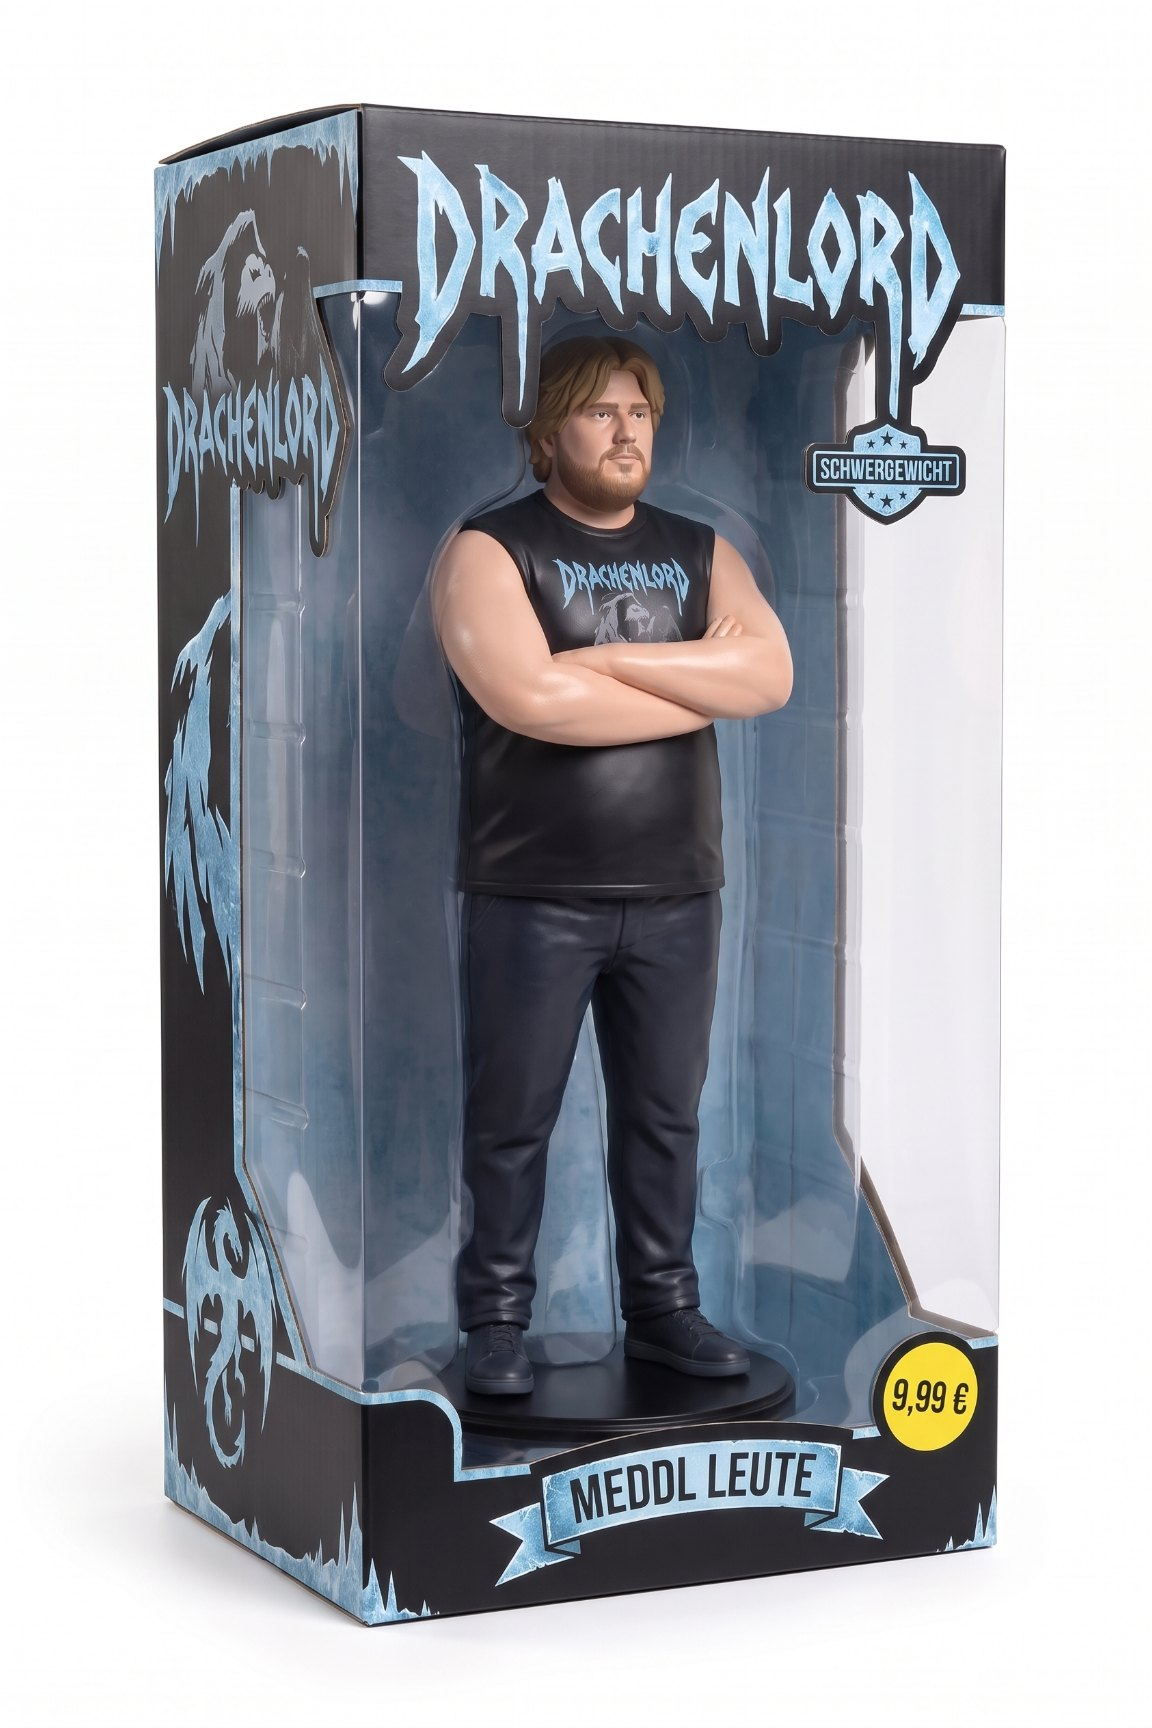
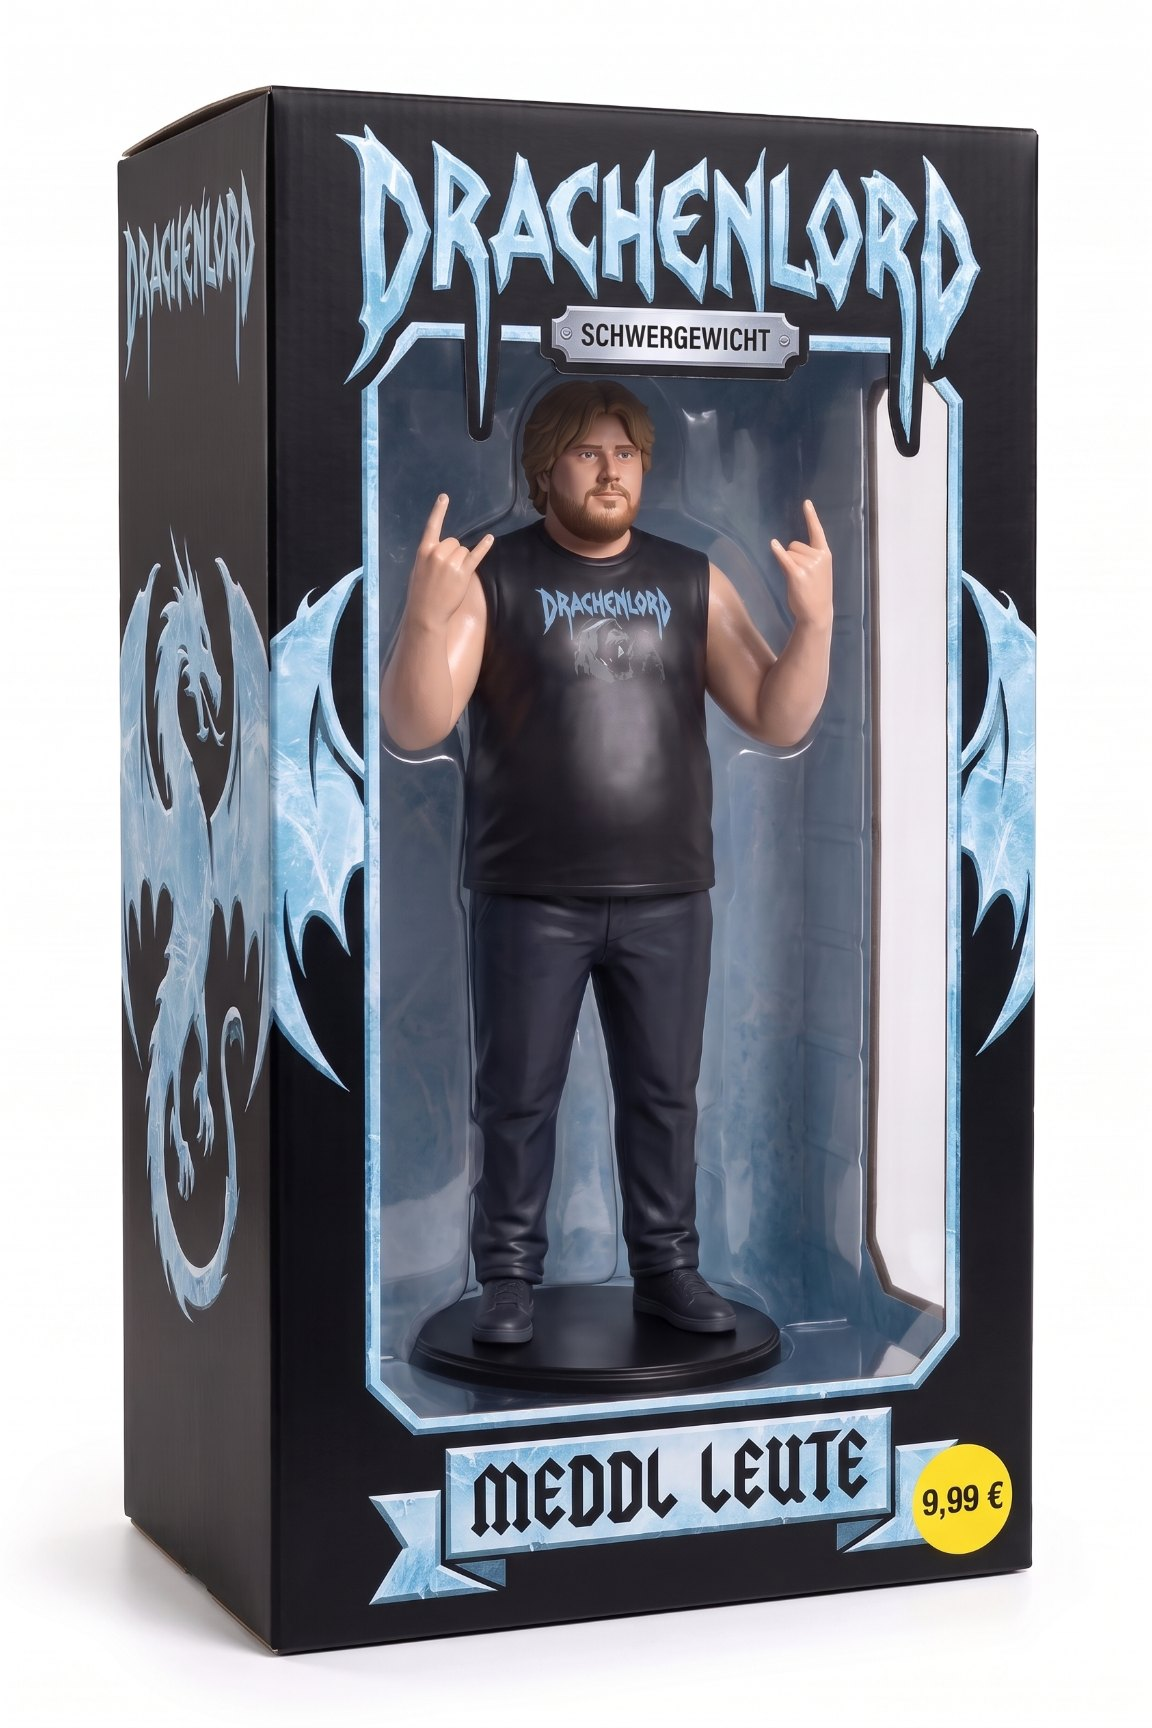
Drachenlord zeigt die Pommesgabel; zweites Bild erscheint, wenn die Maus auf der Karte ist

diff --git a/js/daten.js b/js/daten.js
@@ -10,7 +10,7 @@ var FIGUREN = [{slug:`cow-caddel`,name:`Cow Caddel`,role:`Paddock-Cowboy`,series
 // Beavis, Butt-Head und Drachenlord: nachträglich dazugekommen.
 FIGUREN.push({slug:`beavis`,name:`Beavis`,role:`Sofa`,series:`Goated`,price:9.99,sku:`BV-41505`,edition:``,tagline:`Trying to score`,descriptionTitle:`Er versucht es weiter`,description:[`Die Haare stehen hoch, orangeblond, fast so lang wie der Kopf darunter. Finstere Brauen, lange Nase, das Grinsen mit den Zähnen nach vorn. Blaugraues T-Shirt mit Metallica-Schriftzug, graue Shorts, weiße Socken, schwarze Schuhe. In der rechten Hand hält er eine Dose Pfefferspray, die linke hängt. Auf dem zweiten Bild hat er sich das Spray selbst ins Auge gesprüht: orange Wolke, rotes Auge, Mund weit offen.`,`30 cm, Maßstab 1:6, schwarzer Sockel. Fensterkarton in Blau und Orange, vorn der Preis als gelber Aufkleber. Artikel BV-41505, 9,99 €. Inoffizielles Fan-Stück, kein offizielles Merch.`],images:[{id:`front`,src:`figures/beavis-front.jpg`,label:`Front`},{id:`angle`,src:`figures/beavis-angle.jpg?v=2`,label:`Volltreffer`},{id:`box`,src:`figures/beavis-box.jpg`,label:`Verpackung`}],highlights:[{value:`30 cm`,label:`Höhe`},{value:`1:6`,label:`Maßstab`},{value:`499`,label:`Auflage`}],facts:[[`Name`,`Beavis`],[`Rolle`,`Sofa`],[`Serie`,`Goated`],[`Artikel`,`BV-41505`],[`Maßstab`,`1:6`],[`Höhe`,`30 cm`],[`Kopfbedeckung`,`Keine, Haare hoch`],[`Oberteil`,`Blaugraues T-Shirt`],[`Hose`,`Graue Shorts`],[`Schuhe`,`Schwarz, weiße Socken`],[`Dose`,`Pfefferspray, rechte Hand`],[`Inhalt`,`Orange`],[`Verpackung`,`Fensterkarton, blau und orange`],[`Sockel`,`Mattschwarz, rund`],[`Auflage`,`499 Stück`],[`Alter`,`ab 14 Jahren`],[`Preis`,`9,99 €`]],stats:[{label:`Haar`,value:99},{label:`Grinsen`,value:94},{label:`Pfefferspray`,value:88},{label:`Erfolg`,value:3},{label:`Ruhe`,value:12},{label:`Plastik`,value:91}],includes:[`Figur Beavis`,`Haare, fest`,`Blaugraues T-Shirt`,`Graue Shorts`,`Eine Dose Pfefferspray`,`Fensterkarton in Blau und Orange`,`Gedruckte Datenkarte, beidseitig`],note:`Fan-Stück, kein offizielles Merch. Das Pfefferspray ist Plastik, die orange Wolke auch.`});
 FIGUREN.push({slug:`butt-head`,name:`Butt-Head`,role:`Sofa, andere Seite`,series:`Goated`,price:9.99,sku:`BH-41506`,edition:``,tagline:`Hehehehe`,descriptionTitle:`Er lacht schon vorher`,description:[`Braune Welle hoch über einem sehr langen Kopf. Kleine Augen, große Nase, die Oberlippe zieht nach oben, darunter Zahnfleisch und Zahnspange. Graues T-Shirt mit gelbem AC/DC-Schriftzug, rote Shorts, weiße Socken, schwarze Schuhe. Beide Hände sind leer.`,`30 cm, Maßstab 1:6, schwarzer Sockel. Fensterkarton in Grau und Rot mit gelben Blitzen, vorn der Preis als gelber Aufkleber. Artikel BH-41506, 9,99 €. Inoffizielles Fan-Stück, kein offizielles Merch.`],images:[{id:`front`,src:`figures/butt-head-front.jpg`,label:`Front`},{id:`angle`,src:`figures/butt-head-angle.jpg`,label:`Dreiviertel`},{id:`box`,src:`figures/butt-head-box.jpg`,label:`Verpackung`}],highlights:[{value:`30 cm`,label:`Höhe`},{value:`1:6`,label:`Maßstab`},{value:`499`,label:`Auflage`}],facts:[[`Name`,`Butt-Head`],[`Rolle`,`Sofa, andere Seite`],[`Serie`,`Goated`],[`Artikel`,`BH-41506`],[`Maßstab`,`1:6`],[`Höhe`,`30 cm`],[`Kopfbedeckung`,`Keine, braune Welle`],[`Zähne`,`Zahnspange, oben`],[`Oberteil`,`Graues T-Shirt`],[`Hose`,`Rote Shorts`],[`Schuhe`,`Schwarz, weiße Socken`],[`Hände`,`Leer`],[`Verpackung`,`Fensterkarton, grau und rot`],[`Sockel`,`Mattschwarz, rund`],[`Auflage`,`499 Stück`],[`Alter`,`ab 14 Jahren`],[`Preis`,`9,99 €`]],stats:[{label:`Lachen`,value:99},{label:`Haar`,value:96},{label:`Zahnspange`,value:93},{label:`Erfolg`,value:2},{label:`Tempo`,value:8},{label:`Plastik`,value:90}],includes:[`Figur Butt-Head`,`Braune Welle, fest`,`Graues T-Shirt`,`Rote Shorts`,`Zahnspange, aufgemalt`,`Fensterkarton in Grau und Rot`,`Gedruckte Datenkarte, beidseitig`],note:`Fan-Stück, kein offizielles Merch. Lacht nicht wirklich, sieht nur so aus.`});
-FIGUREN.push({slug:`drachenlord`,name:`Drachenlord`,role:`Schanze`,series:`Schwergewicht`,price:9.99,sku:`DL-41507`,edition:``,tagline:`Meddl Leute`,descriptionTitle:`Arme verschränkt, Blick geradeaus`,description:[`Halblange Haare, Vollbart, die Arme vor der Brust verschränkt. Schwarzes ärmelloses Shirt mit hellblauem Drachenlord-Schriftzug, dunkle Hose, dunkle Schuhe. Er steht breit und fest auf dem Sockel.`,`30 cm, Maßstab 1:6, schwarzer Sockel. Schwarzer Fensterkarton mit eisblauem Drachen, vorn der Preis als gelber Aufkleber. Artikel DL-41507, 9,99 €. Inoffizielles Fan-Stück, kein offizielles Merch.`],images:[{id:`front`,src:`figures/drachenlord-front.jpg`,label:`Front`},{id:`angle`,src:`figures/drachenlord-angle.jpg`,label:`Dreiviertel`},{id:`box`,src:`figures/drachenlord-box.jpg`,label:`Verpackung`}],highlights:[{value:`30 cm`,label:`Höhe`},{value:`1:6`,label:`Maßstab`},{value:`499`,label:`Auflage`}],facts:[[`Name`,`Drachenlord`],[`Rolle`,`Schanze`],[`Serie`,`Schwergewicht`],[`Artikel`,`DL-41507`],[`Maßstab`,`1:6`],[`Höhe`,`30 cm`],[`Kopfbedeckung`,`Keine, halblange Haare`],[`Bart`,`Vollbart, kurz`],[`Oberteil`,`Schwarz, ärmellos, mit Schriftzug`],[`Hose`,`Dunkel`],[`Schuhe`,`Dunkel`],[`Arme`,`Verschränkt, fest`],[`Verpackung`,`Fensterkarton, schwarz und eisblau`],[`Sockel`,`Mattschwarz, rund`],[`Auflage`,`499 Stück`],[`Alter`,`ab 14 Jahren`],[`Preis`,`9,99 €`]],stats:[{label:`Meddl`,value:99},{label:`Stand`,value:97},{label:`Schriftzug`,value:95},{label:`Arme`,value:92},{label:`Bart`,value:90},{label:`Plastik`,value:91}],includes:[`Figur Drachenlord`,`Haare und Bart, fest`,`Schwarzes ärmelloses Shirt mit Schriftzug`,`Dunkle Hose und Schuhe`,`Schwarzer Fensterkarton mit Drachen`,`Gedruckte Datenkarte, beidseitig`],note:`Fan-Stück, kein offizielles Merch. Die Arme sind fest verschränkt und lassen sich nicht bewegen.`});
+FIGUREN.push({slug:`drachenlord`,name:`Drachenlord`,role:`Schanze`,series:`Schwergewicht`,price:9.99,sku:`DL-41507`,edition:``,tagline:`Meddl Leute`,descriptionTitle:`Zwei Pommesgabeln, Blick geradeaus`,description:[`Halblange Haare, Vollbart, beide Hände oben und an jeder die Pommesgabel. Schwarzes ärmelloses Shirt mit hellblauem Drachenlord-Schriftzug, dunkle Hose, dunkle Schuhe. Er steht breit und fest auf dem Sockel. Auf dem zweiten Bild hat er die Arme verschränkt.`,`30 cm, Maßstab 1:6, schwarzer Sockel. Schwarzer Fensterkarton mit eisblauem Drachen, vorn der Preis als gelber Aufkleber. Artikel DL-41507, 9,99 €. Inoffizielles Fan-Stück, kein offizielles Merch.`],images:[{id:`front`,src:`figures/drachenlord-front.jpg?v=2`,label:`Front`},{id:`angle`,src:`figures/drachenlord-angle.jpg`,label:`Verschränkt`},{id:`box`,src:`figures/drachenlord-box.jpg?v=2`,label:`Verpackung`}],highlights:[{value:`30 cm`,label:`Höhe`},{value:`1:6`,label:`Maßstab`},{value:`499`,label:`Auflage`}],facts:[[`Name`,`Drachenlord`],[`Rolle`,`Schanze`],[`Serie`,`Schwergewicht`],[`Artikel`,`DL-41507`],[`Maßstab`,`1:6`],[`Höhe`,`30 cm`],[`Kopfbedeckung`,`Keine, halblange Haare`],[`Bart`,`Vollbart, kurz`],[`Oberteil`,`Schwarz, ärmellos, mit Schriftzug`],[`Hose`,`Dunkel`],[`Schuhe`,`Dunkel`],[`Hände`,`Pommesgabel, beide`],[`Verpackung`,`Fensterkarton, schwarz und eisblau`],[`Sockel`,`Mattschwarz, rund`],[`Auflage`,`499 Stück`],[`Alter`,`ab 14 Jahren`],[`Preis`,`9,99 €`]],stats:[{label:`Meddl`,value:99},{label:`Stand`,value:97},{label:`Schriftzug`,value:95},{label:`Pommesgabel`,value:98},{label:`Bart`,value:90},{label:`Plastik`,value:91}],includes:[`Figur Drachenlord`,`Haare und Bart, fest`,`Schwarzes ärmelloses Shirt mit Schriftzug`,`Dunkle Hose und Schuhe`,`Schwarzer Fensterkarton mit Drachen`,`Gedruckte Datenkarte, beidseitig`],note:`Fan-Stück, kein offizielles Merch. Die Finger sind fest und lassen sich nicht umbiegen.`});
 
 // W-Mobil (ein Ford C-Max): ein Auto, erstmal nur mit dem Vorlagenbild, ohne Texte.
 // ganz:true zeigt das Querformat-Bild vollständig statt beschnitten,

diff --git a/js/app.js b/js/app.js
@@ -51,7 +51,10 @@ function bildStil(bild) {
 
 // Die Karte einer Figur, wie sie auf Start, Produkte und der Figurenseite steht.
 function figurKarte(f) {
-  return '<li><a class="figur-karte" href="' + figurLink(f.slug) + '">' +
+  // Das zweite Bild (meist die Dreiviertel-Ansicht) erscheint, wenn die Maus auf der Karte ist.
+  var zweit = f.images[1];
+  return '<li><a class="figur-karte" href="' + figurLink(f.slug) + '"' +
+    (zweit ? ' data-zweit="' + esc(zweit.src) + '" data-zweit-stil="' + bildStil(zweit) + '"' : '') + '>' +
     '<div class="figur-karte__bild"><img src="' + esc(f.images[0].src) + '" alt="' + esc(f.name) + '" loading="lazy" style="' + bildStil(f.images[0]) + '"/></div>' +
     '<div class="figur-karte__text">' +
     '<p class="figur-karte__serie">' + esc(f.series) + '</p>' +
@@ -101,6 +104,19 @@ function rasterKlasse(anzahl) {
   });
   return beste === 5 ? '' : ' figuren-raster--' + beste;
 }
+
+// Das zweite Bild einer Karte wird erst geladen, wenn die Maus zum ersten Mal
+// darauf kommt. So laden Handys (ohne Maus) es gar nicht.
+document.addEventListener('mouseover', function (e) {
+  var karte = e.target.closest && e.target.closest('.figur-karte[data-zweit]');
+  if (!karte || karte.querySelector('.figur-karte__zweit')) return;
+  var bild = document.createElement('img');
+  bild.className = 'figur-karte__zweit';
+  bild.alt = '';
+  bild.style.cssText = karte.dataset.zweitStil;
+  bild.src = karte.dataset.zweit;
+  karte.querySelector('.figur-karte__bild').appendChild(bild);
+});
 
 // ---------- Warenkorb ----------
 

diff --git a/figur.html b/figur.html
@@ -11,13 +11,13 @@
   <link rel="preconnect" href="https://fonts.googleapis.com"/>
   <link rel="preconnect" href="https://fonts.gstatic.com" crossorigin/>
   <link rel="stylesheet" href="https://fonts.googleapis.com/css2?family=Barlow+Condensed:wght@600;700&amp;family=Outfit:wght@400;500;600&amp;display=swap"/>
-  <link rel="stylesheet" href="css/styles.css?v=20261007200451"/>
+  <link rel="stylesheet" href="css/styles.css?v=20261007201431"/>
 </head>
 <body data-seite="produkte">
-  <!-- Inhalt kommt aus js/figur.js?v=20261007200451, je nach ?slug=... in der Adresse -->
+  <!-- Inhalt kommt aus js/figur.js?v=20261007201431, je nach ?slug=... in der Adresse -->
   <main class="container seite"></main>
-  <script src="js/daten.js?v=20261007200451"></script>
-  <script src="js/app.js?v=20261007200451"></script>
-  <script src="js/figur.js?v=20261007200451"></script>
+  <script src="js/daten.js?v=20261007201431"></script>
+  <script src="js/app.js?v=20261007201431"></script>
+  <script src="js/figur.js?v=20261007201431"></script>
 </body>
 </html>

diff --git a/produkte.html b/produkte.html
@@ -12,7 +12,7 @@
   <link rel="preconnect" href="https://fonts.googleapis.com"/>
   <link rel="preconnect" href="https://fonts.gstatic.com" crossorigin/>
   <link rel="stylesheet" href="https://fonts.googleapis.com/css2?family=Barlow+Condensed:wght@600;700&amp;family=Outfit:wght@400;500;600&amp;display=swap"/>
-  <link rel="stylesheet" href="css/styles.css?v=20261007200451"/>
+  <link rel="stylesheet" href="css/styles.css?v=20261007201431"/>
 </head>
 <body data-seite="produkte">
   <main class="container seite">
@@ -22,8 +22,8 @@
     <div id="serien-filter" class="filter" role="group" aria-label="Nach Serie filtern"></div>
     <ul id="produkt-liste" class="figuren-raster"></ul>
   </main>
-  <script src="js/daten.js?v=20261007200451"></script>
-  <script src="js/app.js?v=20261007200451"></script>
-  <script src="js/produkte.js?v=20261007200451"></script>
+  <script src="js/daten.js?v=20261007201431"></script>
+  <script src="js/app.js?v=20261007201431"></script>
+  <script src="js/produkte.js?v=20261007201431"></script>
 </body>
 </html>

diff --git a/impressum.html b/impressum.html
@@ -12,7 +12,7 @@
   <link rel="preconnect" href="https://fonts.googleapis.com"/>
   <link rel="preconnect" href="https://fonts.gstatic.com" crossorigin/>
   <link rel="stylesheet" href="https://fonts.googleapis.com/css2?family=Barlow+Condensed:wght@600;700&amp;family=Outfit:wght@400;500;600&amp;display=swap"/>
-  <link rel="stylesheet" href="css/styles.css?v=20261007200451"/>
+  <link rel="stylesheet" href="css/styles.css?v=20261007201431"/>
 </head>
 <body data-seite="">
   <main class="container seite">
@@ -25,7 +25,7 @@
       <p><strong>Quellen</strong><br/>Kettensägen-Sound: Ausschnitt aus „WWS Chainsaw“ von Work With Sounds / Werstas, Wikimedia Commons, Lizenz CC BY 4.0, gekürzt und lauter gemacht.</p>
     </div>
   </main>
-  <script src="js/daten.js?v=20261007200451"></script>
-  <script src="js/app.js?v=20261007200451"></script>
+  <script src="js/daten.js?v=20261007201431"></script>
+  <script src="js/app.js?v=20261007201431"></script>
 </body>
 </html>

diff --git a/ranking.html b/ranking.html
@@ -12,7 +12,7 @@
   <link rel="preconnect" href="https://fonts.googleapis.com"/>
   <link rel="preconnect" href="https://fonts.gstatic.com" crossorigin/>
   <link rel="stylesheet" href="https://fonts.googleapis.com/css2?family=Barlow+Condensed:wght@600;700&amp;family=Outfit:wght@400;500;600&amp;display=swap"/>
-  <link rel="stylesheet" href="css/styles.css?v=20261007200451"/>
+  <link rel="stylesheet" href="css/styles.css?v=20261007201431"/>
 </head>
 <body data-seite="ranking">
   <main class="container seite">
@@ -31,8 +31,8 @@
       <div id="ranking-kategorien" class="kategorien"></div>
     </section>
   </main>
-  <script src="js/daten.js?v=20261007200451"></script>
-  <script src="js/app.js?v=20261007200451"></script>
-  <script src="js/ranking.js?v=20261007200451"></script>
+  <script src="js/daten.js?v=20261007201431"></script>
+  <script src="js/app.js?v=20261007201431"></script>
+  <script src="js/ranking.js?v=20261007201431"></script>
 </body>
 </html>

diff --git a/404.html b/404.html
@@ -12,7 +12,7 @@
   <link rel="preconnect" href="https://fonts.googleapis.com"/>
   <link rel="preconnect" href="https://fonts.gstatic.com" crossorigin/>
   <link rel="stylesheet" href="https://fonts.googleapis.com/css2?family=Barlow+Condensed:wght@600;700&amp;family=Outfit:wght@400;500;600&amp;display=swap"/>
-  <link rel="stylesheet" href="css/styles.css?v=20261007200451"/>
+  <link rel="stylesheet" href="css/styles.css?v=20261007201431"/>
 </head>
 <body data-seite="">
   <main class="container seite">
@@ -21,7 +21,7 @@
     <p class="lead">Diese Seite gibt es nicht. Vielleicht hat Strunk sie mitgenommen.</p>
     <a class="btn btn--rot" style="margin-top:32px" href="produkte.html">Zu den Figuren</a>
   </main>
-  <script src="js/daten.js?v=20261007200451"></script>
-  <script src="js/app.js?v=20261007200451"></script>
+  <script src="js/daten.js?v=20261007201431"></script>
+  <script src="js/app.js?v=20261007201431"></script>
 </body>
 </html>

diff --git a/index.html b/index.html
@@ -12,7 +12,7 @@
   <link rel="preconnect" href="https://fonts.googleapis.com"/>
   <link rel="preconnect" href="https://fonts.gstatic.com" crossorigin/>
   <link rel="stylesheet" href="https://fonts.googleapis.com/css2?family=Barlow+Condensed:wght@600;700&amp;family=Outfit:wght@400;500;600&amp;display=swap"/>
-  <link rel="stylesheet" href="css/styles.css?v=20261007200451"/>
+  <link rel="stylesheet" href="css/styles.css?v=20261007201431"/>
 </head>
 <body data-seite="start">
   <main>
@@ -93,8 +93,8 @@
       </section>
     </div>
   </main>
-  <script src="js/daten.js?v=20261007200451"></script>
-  <script src="js/app.js?v=20261007200451"></script>
-  <script src="js/start.js?v=20261007200451"></script>
+  <script src="js/daten.js?v=20261007201431"></script>
+  <script src="js/app.js?v=20261007201431"></script>
+  <script src="js/start.js?v=20261007201431"></script>
 </body>
 </html>

diff --git a/wochenende.html b/wochenende.html
@@ -12,7 +12,7 @@
   <link rel="preconnect" href="https://fonts.googleapis.com"/>
   <link rel="preconnect" href="https://fonts.gstatic.com" crossorigin/>
   <link rel="stylesheet" href="https://fonts.googleapis.com/css2?family=Barlow+Condensed:wght@600;700&amp;family=Outfit:wght@400;500;600&amp;display=swap"/>
-  <link rel="stylesheet" href="css/styles.css?v=20261007200451"/>
+  <link rel="stylesheet" href="css/styles.css?v=20261007201431"/>
 </head>
 <body data-seite="wochenende">
   <main>
@@ -153,7 +153,7 @@
         'mit einem Doppelklick auf „Seite starten.bat“ im Ordner, dann spielt das Video hier.</p></div>';
     }
   </script>
-  <script src="js/daten.js?v=20261007200451"></script>
-  <script src="js/app.js?v=20261007200451"></script>
+  <script src="js/daten.js?v=20261007201431"></script>
+  <script src="js/app.js?v=20261007201431"></script>
 </body>
 </html>

diff --git a/css/styles.css b/css/styles.css
@@ -223,7 +223,9 @@ button { font: inherit; color: inherit; background: none; border: 0; padding: 0;
 }
 .figur-karte:hover { transform: translateY(-4px); box-shadow: var(--shadow); border-color: #d2cdc1; }
 
-.figur-karte__bild { aspect-ratio: 2 / 3; overflow: hidden; background: #fff; }
+.figur-karte__bild { position: relative; aspect-ratio: 2 / 3; overflow: hidden; background: #fff; }
+.figur-karte__bild .figur-karte__zweit { position: absolute; inset: 0; opacity: 0; background: #fff; transition: opacity .25s, transform .5s var(--ease); }
+.figur-karte:hover .figur-karte__zweit { opacity: 1; }
 .figur-karte__bild img {
   width: 100%;
   height: 100%;
